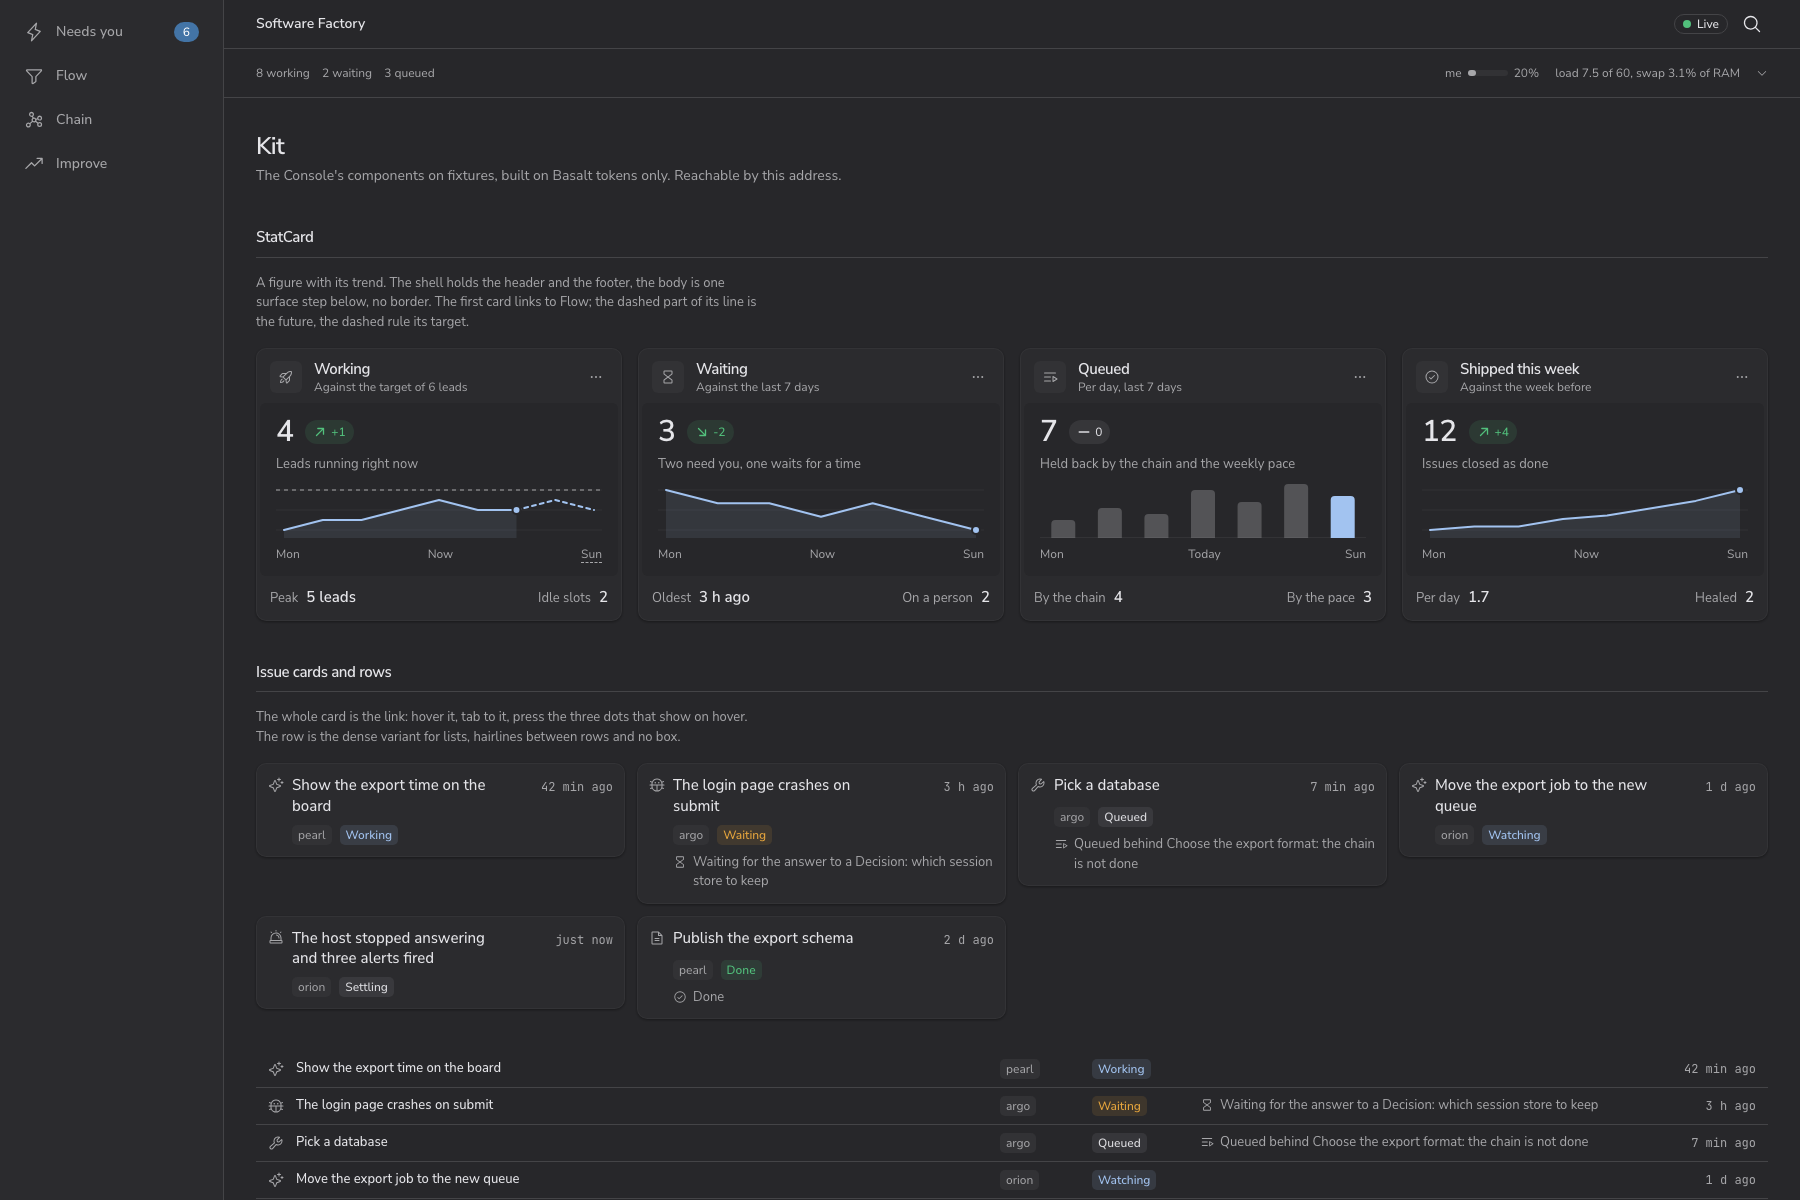
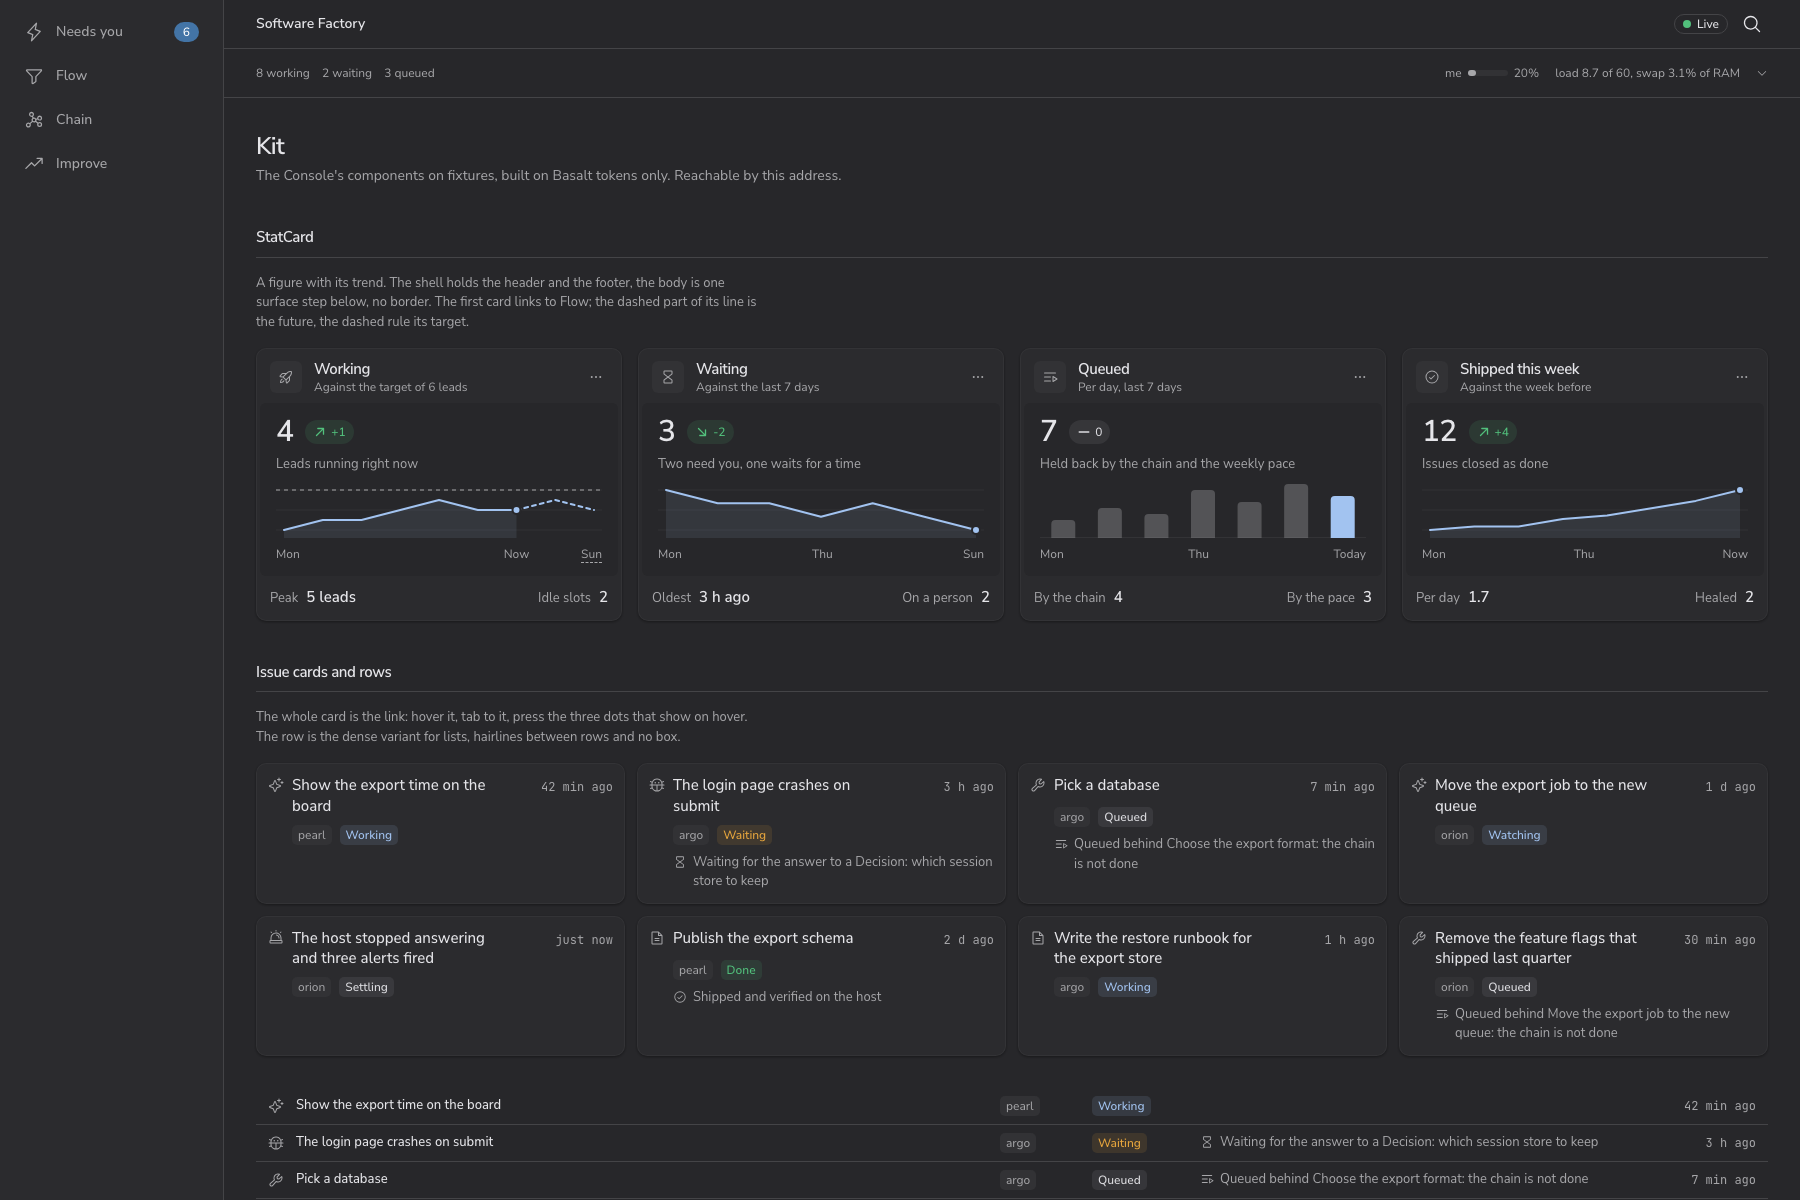
fix(console): kit review round 2: axis labels at their markers, phone rows keep title and reason

diff --git a/apps/console/src/components/kit/fixtures.ts b/apps/console/src/components/kit/fixtures.ts
@@ -71,8 +71,26 @@ export const KIT_ISSUES: KitIssue[] = [
     project: 'pearl',
     kind: 'docs',
     state: 'done',
-    reason: 'Done',
+    reason: 'Shipped and verified on the host',
     since: ago(4300),
+  },
+  {
+    key: 'runbook',
+    title: 'Write the restore runbook for the export store',
+    project: 'argo',
+    kind: 'docs',
+    state: 'working',
+    reason: null,
+    since: ago(95),
+  },
+  {
+    key: 'old-flags',
+    title: 'Remove the feature flags that shipped last quarter',
+    project: 'orion',
+    kind: 'chore',
+    state: 'queued',
+    reason: 'Queued behind Move the export job to the new queue: the chain is not done',
+    since: ago(30),
   },
 ]
 
@@ -112,7 +130,7 @@ export const KIT_STATS: Record<'working' | 'waiting' | 'queued' | 'shipped', Omi
     delta: { value: -2, higherIsBetter: false },
     sub: 'Two need you, one waits for a time',
     series: { values: [6, 5, 5, 4, 5, 4, 3], labels: ['Mon', 'Tue', 'Wed', 'Thu', 'Fri', 'Sat', 'Sun'] },
-    xLabels: ['Mon', 'Now', 'Sun'],
+    xLabels: ['Mon', 'Thu', 'Sun'],
     footer: [
       { label: 'Oldest', value: '3 h ago' },
       { label: 'On a person', value: '2' },
@@ -126,7 +144,7 @@ export const KIT_STATS: Record<'working' | 'waiting' | 'queued' | 'shipped', Omi
     sub: 'Held back by the chain and the weekly pace',
     bars: [3, 5, 4, 8, 6, 9, 7],
     barLabels: ['Mon', 'Tue', 'Wed', 'Thu', 'Fri', 'Sat', 'Sun'],
-    xLabels: ['Mon', 'Today', 'Sun'],
+    xLabels: ['Mon', 'Thu', 'Today'],
     footer: [
       { label: 'By the chain', value: '4' },
       { label: 'By the pace', value: '3' },
@@ -139,7 +157,7 @@ export const KIT_STATS: Record<'working' | 'waiting' | 'queued' | 'shipped', Omi
     delta: { value: 4, higherIsBetter: true },
     sub: 'Issues closed as done',
     series: { values: [1, 2, 2, 4, 5, 7, 9, 12], labels: ['Mon', 'Tue', 'Wed', 'Thu', 'Fri', 'Sat', 'Sun', 'Now'] },
-    xLabels: ['Mon', 'Now', 'Sun'],
+    xLabels: ['Mon', 'Thu', 'Now'],
     footer: [
       { label: 'Per day', value: '1.7' },
       { label: 'Healed', value: '2' },

diff --git a/apps/console/src/components/kit/stat-card.tsx b/apps/console/src/components/kit/stat-card.tsx
@@ -102,6 +102,11 @@ export function StatCard({
       <MiniBars values={bars} labels={barLabels} name={title} />
     ) : null
   const future = series?.futureFrom !== undefined
+  /** The x of the end-of-past dot as a fraction of the plotted width (Sparkline pads 8 px each side). */
+  const nowFraction =
+    series?.futureFrom !== undefined && series.futureFrom > 1 && series.values.length > 1
+      ? (Math.min(series.futureFrom, series.values.length) - 1) / (series.values.length - 1)
+      : null
   return (
     <article
       className={cn(
@@ -135,9 +140,14 @@ export function StatCard({
         {sub ? <p className="text-[length:var(--vx-text-sm)] text-muted-foreground">{sub}</p> : null}
         {picture}
         {xLabels ? (
-          <div className="flex justify-between text-xs text-muted-foreground tabular-nums">
+          <div className="relative flex h-4 justify-between text-xs text-muted-foreground tabular-nums">
             <span>{xLabels[0]}</span>
-            <span>{xLabels[1]}</span>
+            <span
+              className={cn(nowFraction !== null && 'absolute -translate-x-1/2')}
+              style={nowFraction === null ? undefined : { left: `calc(8px + ${nowFraction} * (100% - 16px))` }}
+            >
+              {xLabels[1]}
+            </span>
             <span className={cn(future && 'underline decoration-dashed decoration-1 underline-offset-4')}>
               {xLabels[2]}
             </span>

diff --git a/apps/console/src/components/kit/issue-row.tsx b/apps/console/src/components/kit/issue-row.tsx
@@ -25,13 +25,13 @@ export function IssueRow({
   return (
     <div
       className={cn(
-        'group relative flex min-h-9 items-center gap-3 px-3 py-1.5 text-[length:var(--vx-text-sm)] not-first:border-t',
+        'group relative flex min-h-9 flex-wrap items-center gap-3 px-3 py-1.5 text-[length:var(--vx-text-sm)] not-first:border-t',
         linked && cn(LINKED_CARD, 'has-[a:focus-visible]:ring-3 has-[a:focus-visible]:ring-ring/50'),
         className,
       )}
     >
       <KindIcon className="size-4 shrink-0 text-muted-foreground" aria-label={kind} role="img" />
-      <span className="min-w-0 flex-1 line-clamp-2 font-medium min-[40rem]:line-clamp-1">
+      <span className="min-w-0 flex-1 font-medium min-[40rem]:line-clamp-1">
         <CardLink href={href} as={as}>
           {title}
         </CardLink>
@@ -46,6 +46,9 @@ export function IssueRow({
         {reason ? <ReasonLine state={state} reason={reason} className="[&>span]:truncate" /> : null}
       </div>
       <AgeColumn since={since} now={now} onMenu={onMenu} title={title} />
+      {reason ? (
+        <ReasonLine state={state} reason={reason} className="basis-full pl-7 text-xs min-[64rem]:hidden" />
+      ) : null}
     </div>
   )
 }

diff --git a/apps/console/src/routes/kit.tsx b/apps/console/src/routes/kit.tsx
@@ -88,7 +88,7 @@ function Kit() {
           The whole card is the link: hover it, tab to it, press the three dots that show on hover. The row is the dense
           variant for lists, hairlines between rows and no box.
         </Note>
-        <div className="grid grid-cols-[repeat(auto-fill,minmax(19rem,1fr))] items-start gap-3">
+        <div className="grid grid-cols-[repeat(auto-fill,minmax(19rem,1fr))] gap-3">
           {KIT_ISSUES.map((i) => (
             <IssueCard
               key={i.key}
